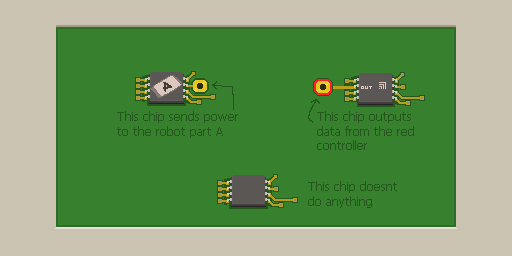
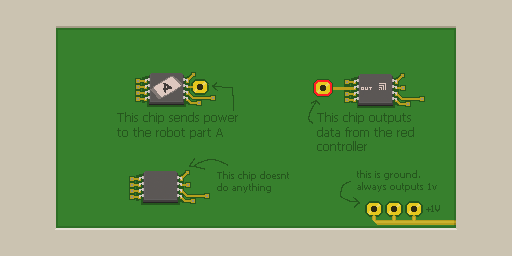
ground

diff --git a/GGJ20/Assets/_Game/Scripts/Circuit.cs b/GGJ20/Assets/_Game/Scripts/Circuit.cs
@@ -204,11 +204,24 @@ public class Circuit : MonoBehaviour
             slots.Add(SinOUT);
             
         }
+        
+        //ground
+        sSlot G1 = new sSlot(373, 209, true);
+        slots.Add(G1);
+        sSlot G2 = new sSlot(394, 209, true);
+        slots.Add(G1);
+        sSlot G3 = new sSlot(410, 209, true);
+        slots.Add(G1);
     }
 
     void UpdateBoard()
     {
         ReadCircuitInputs();
+        
+        //grounds
+        slots[ slots.Count - 1 ].data = 0;
+        slots[ slots.Count - 2 ].data = 0;
+        slots[ slots.Count - 3 ].data = 0;
 
         if( levelID == 0 )
         {
